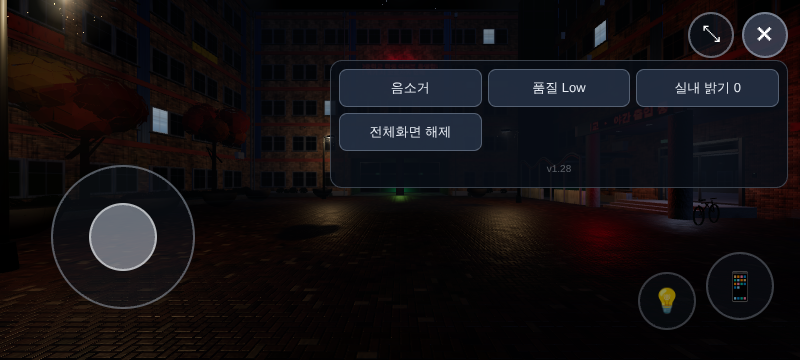
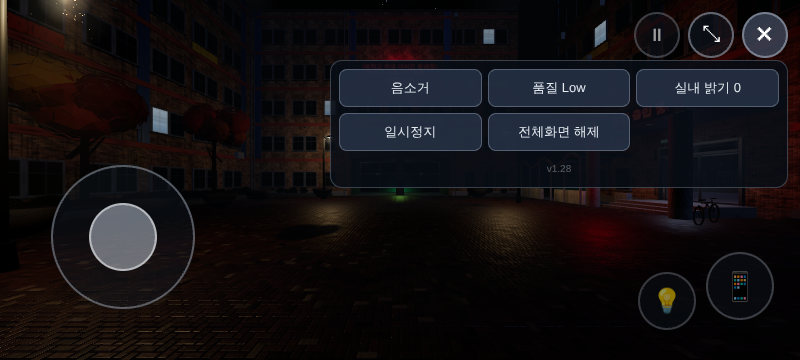
렉 점검: 점광원 예산(바깥 10·실내 6)으로 픽셀 셰이더 비용 줄이기 (v1.28.6)
Claude-Session: https://claude.ai/code/session_01CR6fikYeG2uqXAZjSjKBe8

diff --git a/src/world/lighting.js b/src/world/lighting.js
@@ -118,8 +118,42 @@ export function buildLighting(scene, ctx) {
   // 실내(k > 0.98)에서는 가로등 점광원을 아예 끈다 (실내 배율 12 % 라 거의 안 보이고, 점광원 하나마다 모든 재질의 계산이 늘어난다).
   // 켜고 끌 때 셰이더가 다시 컴파일되므로 main.js prewarmShaders 가 두 상태를 미리 만들어 둔다
   out.setOutdoorLamps = (on) => {
-    for (const lamp of out.lamps) lamp.light.visible = on;
+    for (const lamp of out.lamps) lamp.light.userData.forceOff = !on;
+    outdoor = on;
+    applyBudget(lastCam);
   };
+
+  // 점광원 예산 (렉 점검, v1.28.6): three 의 앞쪽 렌더링은 켜진(visible) 점광원 전부를 모든 재질의 픽셀 셰이더에서 돌린다.
+  // 장면에는 점광원이 18개(가로등 6·현관·LED 2·필로티·야자·실내 표시등·눈앞 빛·옥상 2…)인데 플레이어 근처에서 실제로 쓰이는 건 몇 개뿐이라,
+  // 카메라에 영향이 큰 순서로 K 개만 켠다. 켜진 개수가 늘 같아서 셰이더가 다시 컴파일되지 않는다 (바깥/실내 두 값만 main.js prewarmShaders 가 미리 만든다)
+  const B = LIGHTS.budget;
+  const lightList = [];
+  let outdoor = true;
+  const lastCam = new THREE.Vector3();
+  let listAge = Infinity;
+  const wp = new THREE.Vector3();
+  const collect = () => {
+    lightList.length = 0;
+    scene.traverse((o) => { if (o.isPointLight) lightList.push(o); });
+    listAge = 0;
+  };
+  const score = (l, cam) => {
+    if (l.userData.forceOff) return -1;
+    l.getWorldPosition(wp);
+    const over = Math.max(0, wp.distanceTo(cam) - l.distance * B.reach); // 이 반경 안이면 거리 무관, 밖이면 급히 줄어든다
+    return (l.intensity * (l.visible ? B.keep : 1)) / (1 + over * over);
+  };
+  const applyBudget = (cam) => {
+    lastCam.copy(cam);
+    if (!lightList.length) collect();
+    const k = outdoor ? B.outdoor : B.indoor;
+    const ranked = lightList.map((l) => [score(l, cam), l]).sort((a, b) => b[0] - a[0]);
+    ranked.forEach(([sc, l], i) => { l.visible = i < k && sc >= 0; });
+    // 켜진 개수는 늘 k 로 맞춘다 (개수가 바뀌면 셰이더가 다시 컴파일된다). 모자라면 꺼 둔 순서대로 채운다
+    let on = ranked.filter(([, l]) => l.visible).length;
+    for (let i = 0; i < ranked.length && on < k; i++) if (!ranked[i][1].visible) { ranked[i][1].visible = true; on++; }
+  };
+  out.applyBudget = applyBudget;
   // 실내에서는 달 그림자를 마지막 자리에 고정해 매 프레임 다시 그리지 않는다
   let frozen = false;
   out.freezeMoon = (on) => {
@@ -138,7 +172,15 @@ export function buildLighting(scene, ctx) {
   let since = 0;
   moon.shadow.autoUpdate = false;
   moon.shadow.needsUpdate = true;
+  let budgetT = 0;
   out.update = (playerPos, dt = 1 / 60) => {
+    budgetT += dt;
+    listAge += dt;
+    if (budgetT >= B.every) {
+      budgetT = 0;
+      if (listAge > B.rescan) collect();
+      applyBudget(playerPos);
+    }
     if (frozen) return;
     since += dt;
     const x = Math.round(playerPos.x / snap) * snap;

diff --git a/src/config.js b/src/config.js
@@ -98,6 +98,8 @@ export const LIGHTS = {
   led: { intensity: 8, distance: 11 },
   envIntensity: 0.2,
   inspectBoost: 6, // 점검 모드 hemi 배율
+  // 점광원 예산 (lighting.js): 켜 두는 점광원 수. 바깥은 가로등·현관 등 여럿, 실내는 표시등·눈앞 빛 정도면 충분하다
+  budget: { outdoor: 10, indoor: 6, every: 0.15, rescan: 3, reach: 0.8, keep: 1.3 },
 };
 
 export const FOG = { density: 0.02, min: 0.015, max: 0.04, step: 0.0025 };

diff --git a/CLAUDE.md b/CLAUDE.md
@@ -7,7 +7,7 @@
 
 - 명세 S1~S14 구현 완료, 시각 검증 3회 수행. 스토리 단계 0·0②·0b-1(핸드폰, 손전등 제거)·0b-2(이동·스태미나)·0b-3(추격 엔진)·0b-4(퍼즐 실행기 골격)·1a(외부 확장: 본관 중정형·신관·3층 연결통로·운동장, 필로티는 얕은 입구)·1b(본관 실내 1~5층: 층별 충돌·계단·문·실내 분위기)·1c(신관 실내 1~5층·3층 연결통로·잠긴 연결문)·1d(맵 데이터 `data/map.json`·핸드폰 위치 이름·잠긴 문 소리·보조배터리 9개 배치·성능 점검)·0c(시작 흐름: 이름 입력 → 학교 앞 자유 탐색 → 현관 홀에서 E1, `src/story/prelude.js`·`src/ui/startFlow.js`)·2a(E1~E2: 동쪽 복도 진입 E2 → 추격 C1 → 숨기 P1 → 흔적, `src/scene/`·`src/story/triggers.js`, 사건 안 행동 줄 `{do}`)·2b(E3~E6: 연결문·교무실 열쇠·원경 귀신·신관 5층, 줍기·소리 `src/scene/steps.js`, 5층 책은 2회차만)·3(E7~E9: 정전·점프스케어 #1·P3 교실 수색 `src/scene/p3.js`·E9 4층 책, 행동 줄 `reach`·`blackout`·`scare`)·4a(E10~E12: 추격 C2·점프스케어 #2·기절·각성 `src/scene/faint.js`·P2 당직실 단서 `src/scene/p2.js`·E12 선택지, 행동 줄 `faint`)·4b(E13~E15: 45초 대기 E13·P4 교무실 열쇠 `src/scene/p4.js`·E14 시선 돌리기·점프스케어 #3·마지막 추격 C4(실제 계단 경로 40 m)·E15 쓰러짐·엔딩 C `src/scene/finale.js`, 행동 줄 `look`·`collapse`, 트리거 `wait`·`routes`)·5(단계 17: R2 — 당직과 함께 E13 P4·E14 점프스케어 #3·추격 C4 입구 5 m 앞 트리거 붙잡힘·엔딩 B, 행동 줄 `collapse caught`, 사건 필드 `objectiveDoneByFlag`·`freezeAfter`)·6a(단계 18: R1 앞부분 — E7 → R1-a 책 건네기 → R1-b P3 → 구관 4층 당직실 R1-c 당직 첫 만남·P2 → R1-d 잡담·검은 연기 퇴장, 행동 줄 `vanish` `src/scene/vanish.js`)·6b(단계 19: R1 뒷부분 — R1-e {mingeon} 시점 전환·P4(당직 함께) → R1-f 점프스케어 #2·당직 사망 → R1-g 추격 C3(C4 와 같은 실제 경로) → R1-h 주인공 시점 복귀·흔적·탈출·엔딩 A, 행동 줄 `switch` `src/scene/pov.js`(데이터 `story.switches`, 체크포인트 `pov` = 시점별 자리·스태미나)·`escape` `src/scene/escape.js`(`story.escapes`), 사건 필드 `withDuty`)·7(단계 20 마감: 실내 밝기 보정 5단계 `src/ui/brightness.js`·`brightnessUi.js`(localStorage, 키 `-` `=`, 터치 메뉴)·조명 구역(`Atmosphere.zoneTarget`, STORY 15장 표)·유도등 그림·테·점광원 자리·복선 13-3 혼자일 때 연출 `src/scene/alone.js`(데이터 `story.alone`, 속삭임 `src/audio/whisper.js`)·시작 화면 경고 문구·엔딩 카드 "처음부터 다시"(Enter)·3루트 회귀 `test/routes.test.mjs`, 수치 `FINISH` = `src/config/finish.js`)·8(단계 21: 옥상 수영장·엔딩 D·크레딧 — 구관 5층 북서쪽 계단(S2) 맨 위 옥상 문 → 암전 → 지붕 위 데크(층 5) `src/scene/roof.js`·`roofView.js`, 그리기 `src/world/roof/`(데크·수영장·난간·간판, 충돌 `addRoofCollision`), 데이터 `data/roof.json`, 수치 `ROOF` = `src/config/roof.js`, 간판 크레딧 = `credits.json`(+ 로컬 덮어쓰기), 옥상에 있는 동안 사건 정지(`roof.paused`))까지 main 반영 — 스토리 단계(0~8) 전부 끝. 남은 후보는 `PROGRESS.md` 5장(단계 19 버그 후보 2개 등). 귀신 직접 추적(v1.28): 귀신이 플레이어 지금 자리까지 길 찾기로 쫓아옴 `src/scene/pursuer.js`(발자취 따라가기 없앰). 귀신 3D 모델(v1.27): `src/scene/ghost/`(교복 학생, 절차 도형·텍스처, 예전 실루엣 판 자리에 `GhostFigure`). 핸드폰 "가는 길" 안내(v1.17): `src/world/nav.js`(A* 길 찾기)·`navGuide.js`(목표별 안내)·`data/nav.json`(목표 키 → 가는 곳). 사건 단계에서 목표 키(`story.json` objectives)를 추가하면 `nav.json` 에도 같은 키를 적는다(`nav.test` 가 확인). 추격 중에는 목표 대신 추격 도착점을 가리키므로 새 추격(`chases.json`)은 `nav.json` `chases` 에 이름을 적는다(`chase-guide.test` 가 확인, v1.28.1). 큰 충돌·이동 경계는 `src/world/layout.js`, 실내 배치는 `data/mainInterior.json`·`data/annexInterior.json` → `src/world/interior/`(조립 `site.js`, 연결통로 `connector.js`), 충돌의 층은 `Collision` 의 `level`. 맵 데이터 `data/map.json`(로더 `src/world/mapData.js`, 평면에서 만드는 부분은 실내 배치를 바꾼 뒤 `npm run map`). 상세 이력·결정 이유·한계·다음 후보는 [`PROGRESS.md`](PROGRESS.md).
 - 디버그 키·터치 메뉴 디버그 항목은 비밀번호(`DEBUG.password`)로 잠겨 있다(PC `` ` `` 키, 터치는 버전 글자 5번 탭으로 해제, 잠금 중 터치 메뉴 디버그 항목은 숨김). smoke·touch 는 `window.__DEBUG.gate` 나 입력 창으로 해제한 뒤 디버그 키를 쓴다. 새 디버그 키를 만들면 `main.js` 의 잠금 규칙(`FREE_CODES`)을 따른다.
-- 현재 버전 `v1.28.1` (시작 화면에 `v1.27` + 작은 커밋 해시 표시). 번호는 `package.json` 하나로 관리하고 올리는 규칙은 아래 "main 자동 반영 규칙" 3번.
+- 현재 버전 `v1.28.6` (시작 화면에 `v1.27` + 작은 커밋 해시 표시). 번호는 `package.json` 하나로 관리하고 올리는 규칙은 아래 "main 자동 반영 규칙" 3번.
 - 추가 완료: GitHub Pages 배포(`main` 푸시 → `dist/`), 터치 조작(조이스틱·드래그·📱💡·접이식 메뉴), 이 규칙 문서.
 - 테스트: `npm run build` / `test`(스토리·핸드폰·스태미나·추격·퍼즐 단위 테스트, 추격 자동 시뮬레이션) / `smoke`(키보드·충돌·스토리·핸드폰·스태미나·추격·퍼즐·본관 실내·신관) / `touch`(터치·실내 문) / `shots`(스크린샷, 실내 시점 14~34). 모두 통과 상태. `test` 에 이동 경계(`layout.test.mjs`)·층 충돌(`collision-levels.test.mjs`)·본관 실내(`interior.test.mjs`)·신관·연결통로(`annex-interior.test.mjs`)·맵(`map.test.mjs`)·시작 흐름(`start-flow.test.mjs`)·E2 추격·숨기(`e2-scene.test.mjs`)·E3~E6(`e3e6.test.mjs`)·E7~E9(`e7e9.test.mjs`)·E10~E12(`e10e12.test.mjs`)·E13~E15(`e13e15.test.mjs`)·R2(`e17r2.test.mjs`)·R1-a~R1-d(`r1ad.test.mjs`)·R1-e~R1-h(`r1eh.test.mjs`, 공용 세계 `worldR1.mjs`)·3루트 회귀(`routes.test.mjs`: 학교 앞 → 엔딩 A·B·C 자동 진행, 점프스케어 수·깜빡임 초당 3회 미만, 세계 `worldFull.mjs`·진행 `routeDrive.mjs`·깜빡임 검사 `flicker.mjs`)·마감(`finish.test.mjs`)·옥상(`roof.test.mjs`) 포함. 새 사건·연출을 넣으면 `routeDrive.mjs` 의 순서와 `worldFull.mjs` 의 연결도 맞춘다. 매직 넘버 중 사건 연출(`SCENE`)은 `src/config/scene.js`, 마감 수치(`FINISH`)는 `src/config/finish.js`, 촬영 시점(`SHOTS`)은 `src/config/shots.js` 에 있고 `config.js` 가 다시 내보낸다. smoke·touch 는 시작 화면에서 이름을 넣어야 시작된다(`#name-input`), 사건 자동 진입은 `__DEBUG.prelude.enabled`·`__DEBUG.scenes.auto` 를 꺼서 막는다. 보조 스크립트: `npm run map`(map.json 다시 만들기), `npm run perf`(품질별 프레임·드로우콜), `node scripts/travel.mjs`(이동 시간 표).
 - **미검증**: 실제 폰·GPU 에서의 FPS, 터치 감도, 소리(속삭임 포함), 실내 밝기(밝기 보정 기본값). headless 환경에서는 측정할 수 없었다.

diff --git a/PROGRESS.md b/PROGRESS.md
@@ -178,3 +178,9 @@
 - `src/ui/pause.js`(PauseState·mountPause). 일시정지 = 메인 루프가 step 을 건너뜀 + `audio.pause()`(AudioContext suspend). 게임 시간은 모두 dt 기반이라 귀신·타이머·연출·스태미나가 함께 멈춘다.
 - 데스크톱: 포인터락 해제(ESC) → 일시정지 화면, ESC·클릭·계속하기로 락을 다시 잡으면 재개. 디버그 비밀번호 창이 연 락 해제는 제외. 터치: ⏸ 버튼·메뉴 '일시정지'·계속하기.
 - 한계: CSS 전환(암전·알림 페이드)과 토스트 타이머는 실시간으로 끝난다. 일회성 소리 정리 타이머(setTimeout)가 일시정지가 길면 소리 꼬리를 일찍 자를 수 있다. 실제 브라우저에서 ESC 뒤 재락(쿨다운) 동작은 headless 에서만 확인.
+
+## v1.28.6 — 점광원 예산 (렉 점검)
+- 원인: 장면에 켜진 점광원이 18개였다(가로등 6·현관·LED 2·필로티·야자·실내 표시등 4·눈앞 빛·옥상 2…). three 앞쪽 렌더링은 켜진 점광원 전부를 모든 재질의 픽셀 셰이더에서 돌리므로, 멀리 있거나 세기 0인 것까지 매 픽셀 비용이 들었다. 논리(JS) 쪽은 프레임당 0.4~2.4 ms 로 병목이 아니었다.
+- 조치: `src/world/lighting.js` 점광원 예산 — 카메라 영향이 큰 순서(세기 ÷ 반경 밖 거리², 켜져 있던 것은 ×1.3 로 깜빡임 방지)로 바깥 10개·실내 6개만 켠다. 켜진 개수가 늘 같아서 셰이더 재컴파일이 없다(`prewarmShaders` 가 바깥·실내 두 값을 미리 만든다). 수치 `LIGHTS.budget`(`src/config.js`).
+- 측정(headless SwiftShader 480×270, High, 프레임 간격 중앙값): 현관 전경 2167→1517 ms, 현관 홀 1750→250 ms, 교실 617→333 ms, 연결통로 700→717 ms. 실기기 FPS 는 아니며 점광원 18→10(바깥)·실내 6 은 모든 재질의 광원 반복이 줄어든 비율이 반영된 값이다.
+- 한계/남은 후보: 실기기 미측정. 핸드폰 스포트라이트 그림자는 매 프레임 다시 그린다(Low 는 꺼짐). 캔버스 `antialias:true` 는 후처리(Mid/High) 때 낭비일 수 있으나 Low 가 직접 그려서 못 끈다.
